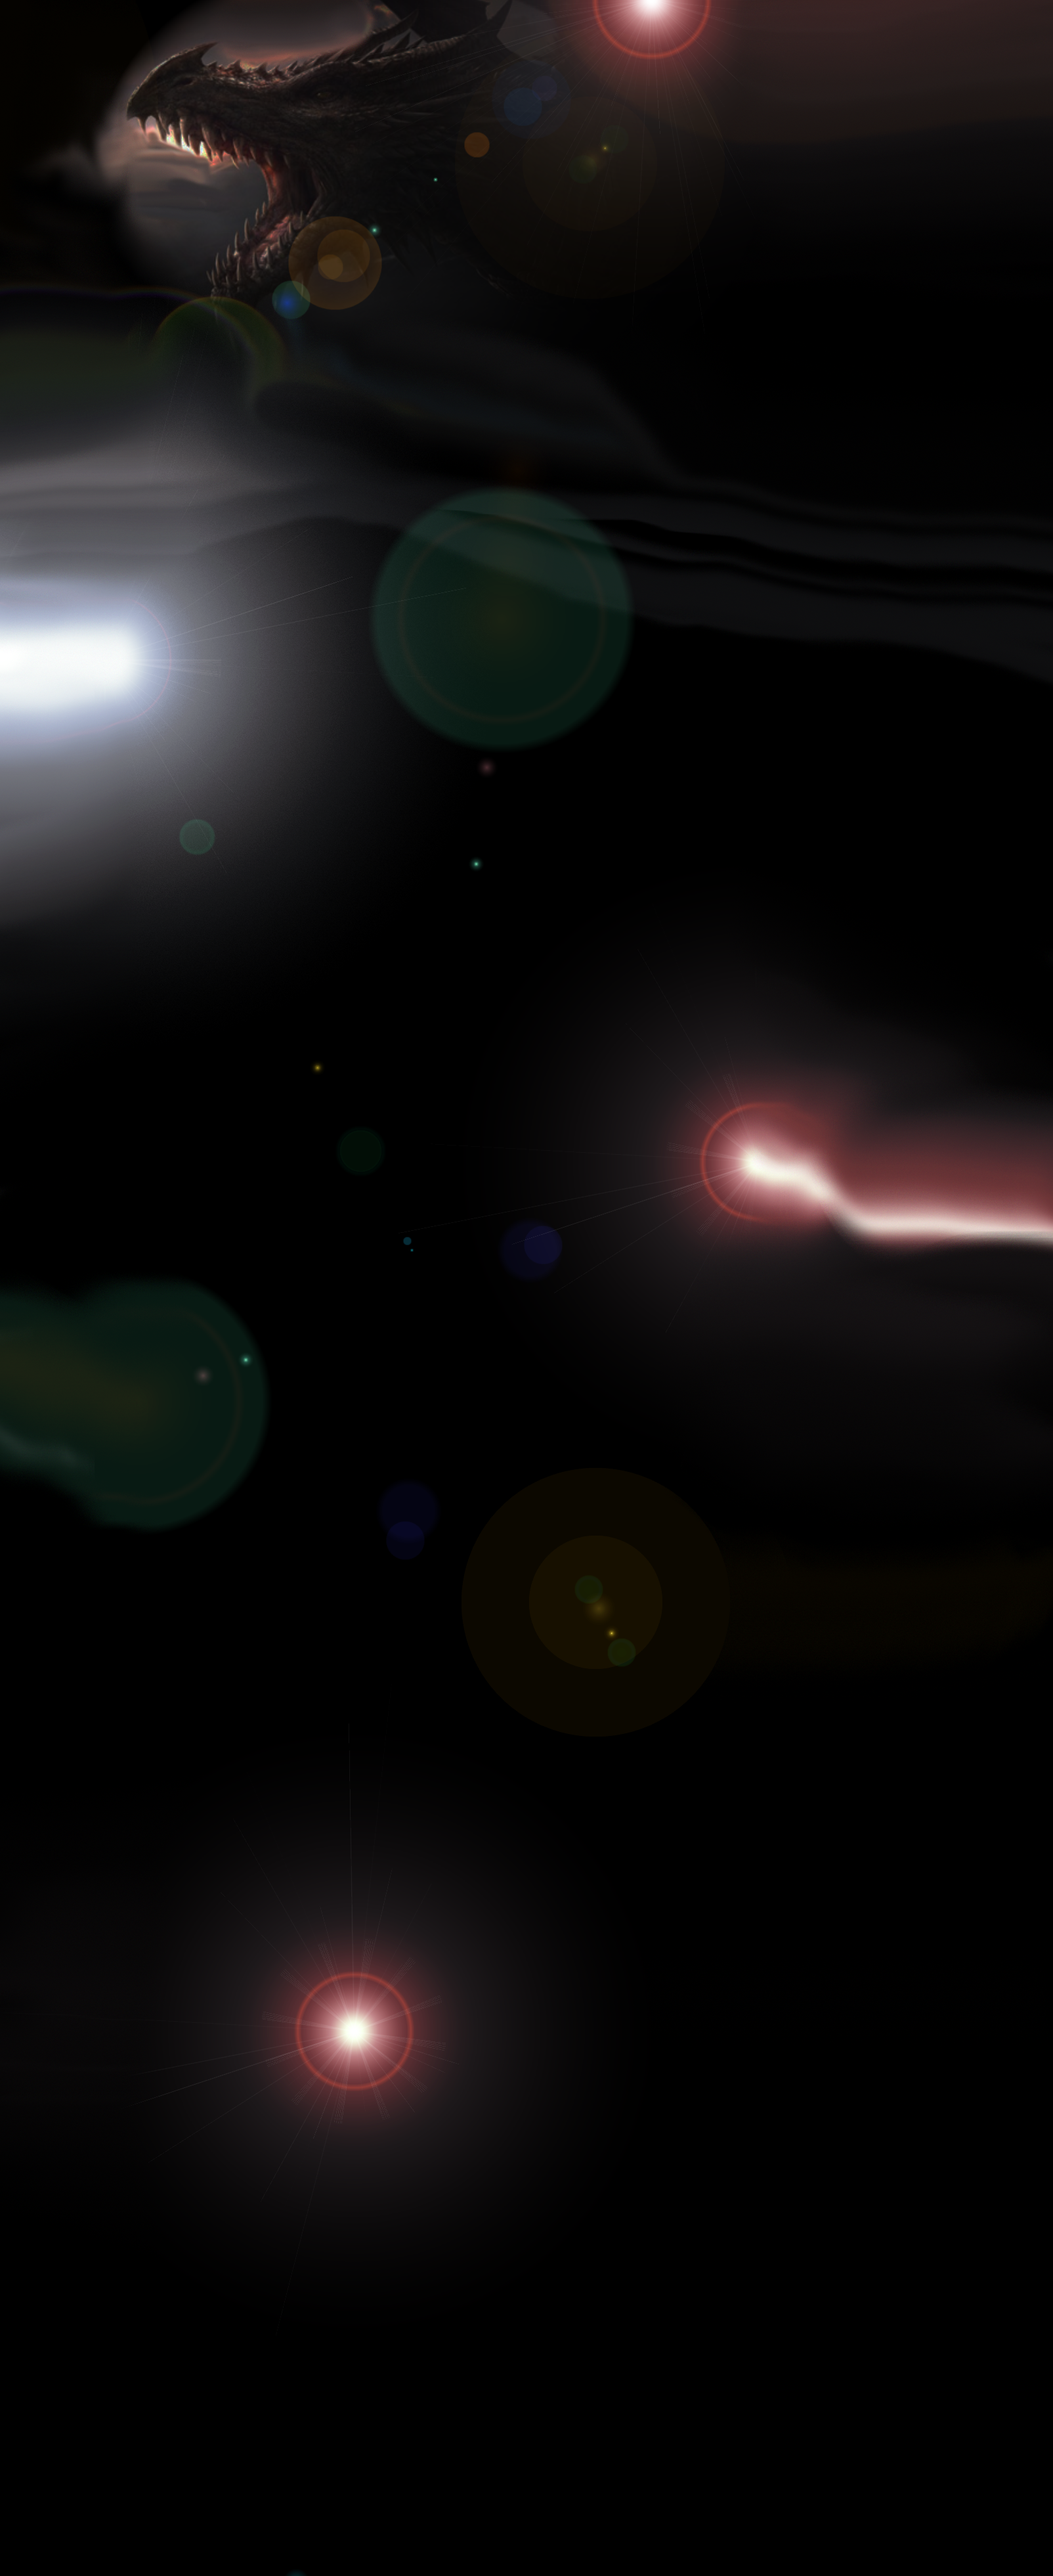
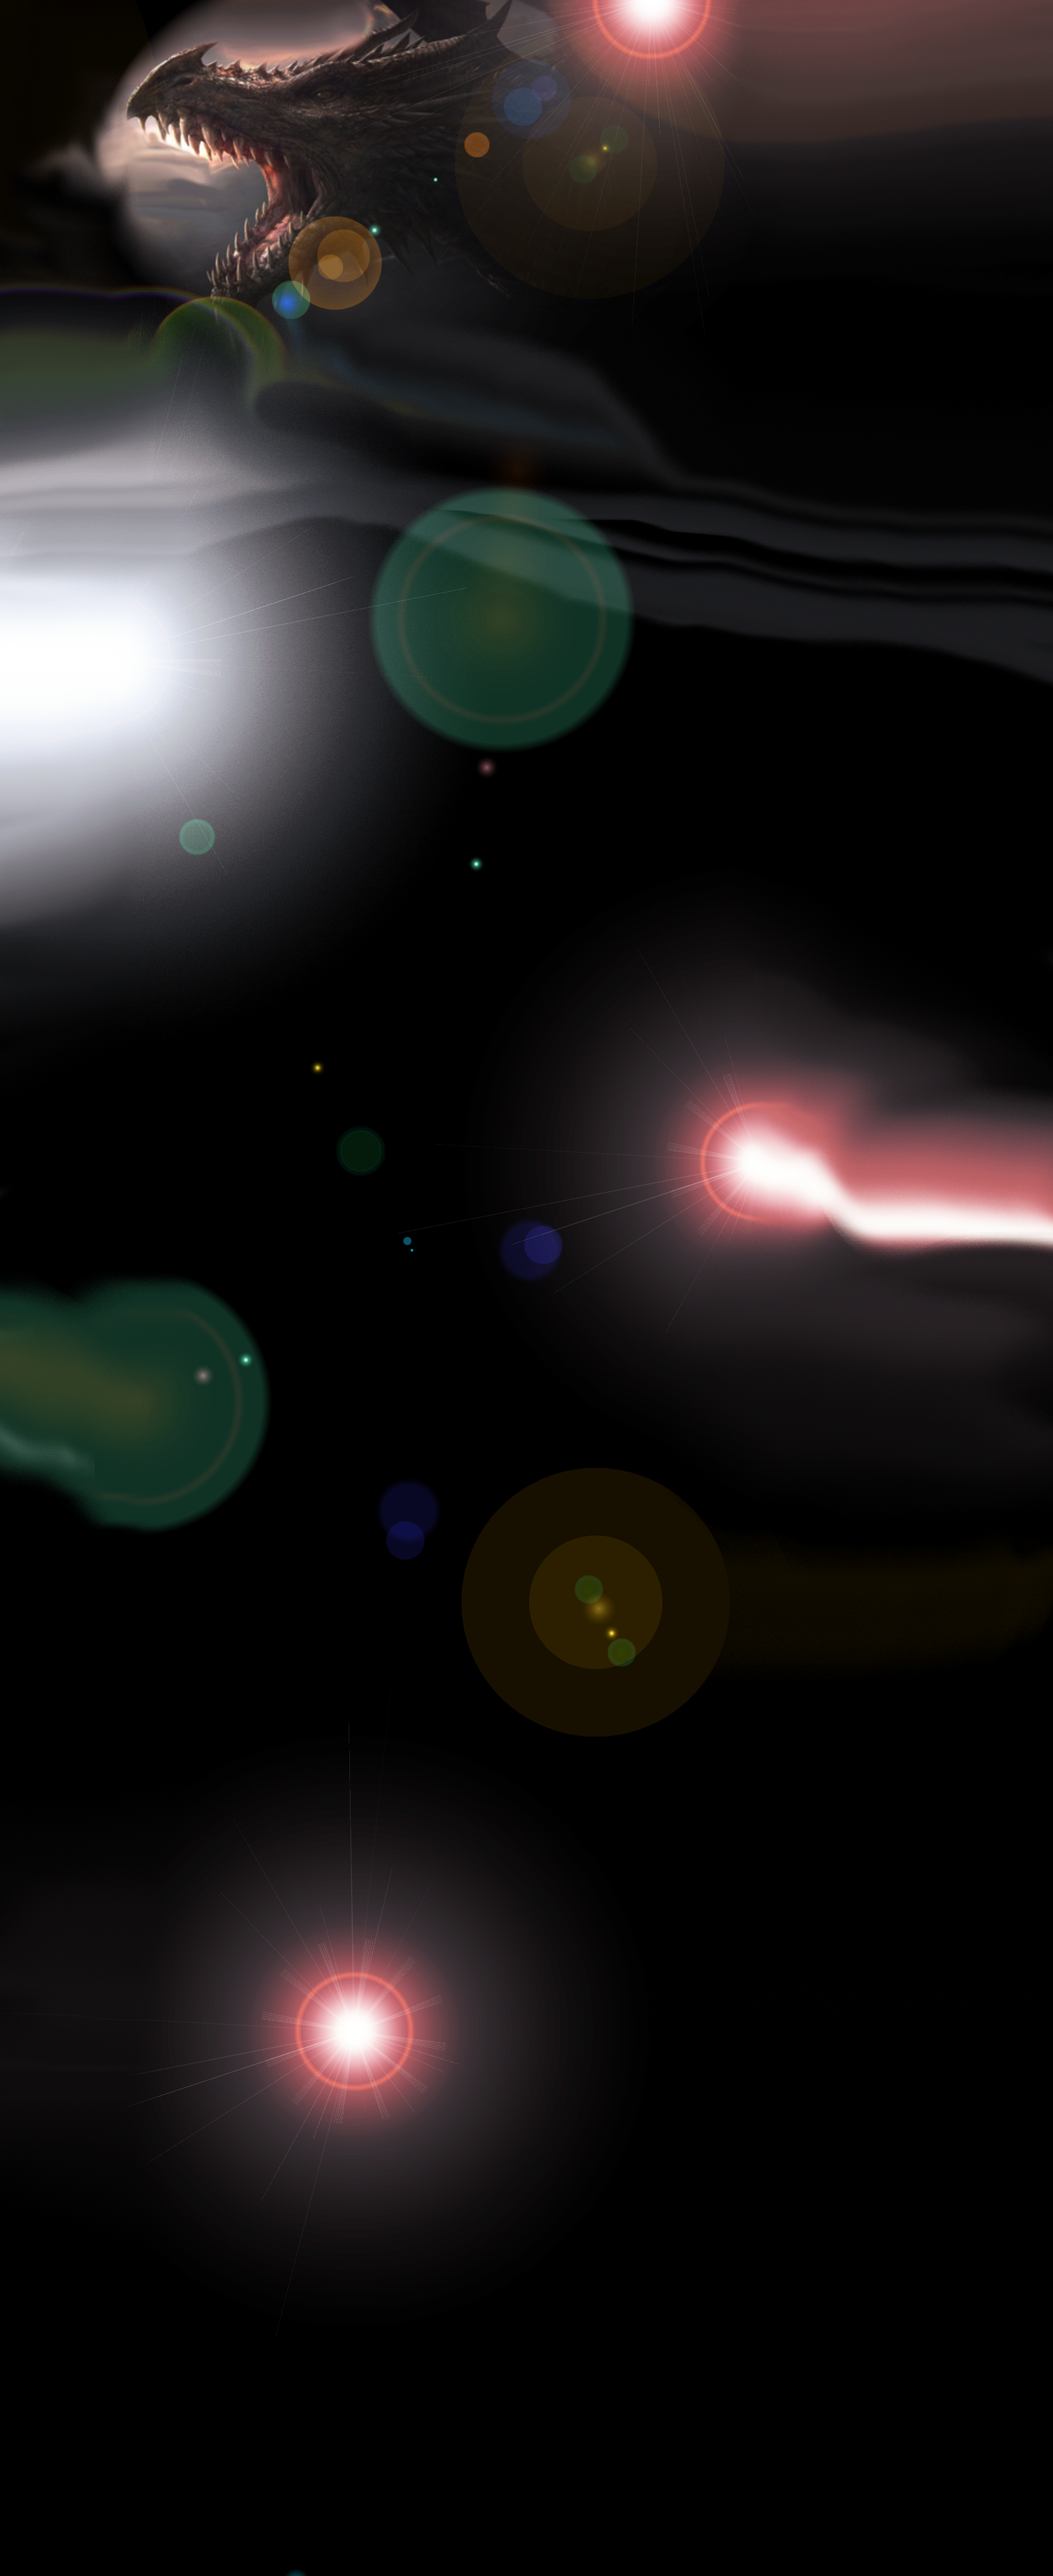
updated image contrast and css for background image

diff --git a/assets/css/style.css b/assets/css/style.css
@@ -4,6 +4,7 @@ body {
 	background-image: url("../images/smegol.PNG");
 	background-repeat: no-repeat;
 	background-color: black;
+	background-size: cover;
 }
 
 .titlebar {
@@ -105,6 +106,12 @@ p {
 }
 
 @media screen and (max-width: 2560px) {
+	body {
+		background-image: url("../images/smegol.PNG");
+		background-repeat: no-repeat;
+		background-color: black;
+		background-size: cover;
+	}
 	.jumbotron {
 		width: 100%;
 		margin-top: 1.5%;
@@ -204,6 +211,12 @@ p {
 }
 
 @media screen and (max-width: 1649px) {
+	body {
+		background-image: url("../images/smegol.PNG");
+		background-repeat: no-repeat;
+		background-color: black;
+		background-size: cover;
+	}
 	.jumbotron {
 		width: 100%;
 		margin-top: 1.5%;
@@ -303,6 +316,12 @@ p {
 }
 
 @media screen and (max-width: 2059px) {
+	body {
+		background-image: url("../images/smegol.PNG");
+		background-repeat: no-repeat;
+		background-color: black;
+		background-size: cover;
+	}
 	.jumbotron {
 		width: 100%;
 		margin-top: 1.5%;
@@ -402,6 +421,12 @@ p {
 }
 
 @media screen and (max-width: 1865px) {
+	body {
+		background-image: url("../images/smegol.PNG");
+		background-repeat: no-repeat;
+		background-color: black;
+		background-size: cover;
+	}
 	.jumbotron {
 		width: 100%;
 		margin-top: 1.5%;
@@ -490,6 +515,13 @@ p {
 }
 
 @media screen and (max-width: 1565px) {
+	body {
+		background-image: url("../images/smegol.PNG");
+		background-repeat: no-repeat;
+		background-color: black;
+		background-size: cover;
+	}
+
 	.jumbotron {
 		width: 100%;
 		margin-top: 1.5%;
@@ -579,6 +611,12 @@ p {
 
 
 @media screen and (max-width: 1280px)  {
+	body {
+		background-image: url("../images/smegol.PNG");
+		background-repeat: no-repeat;
+		background-color: black;
+		background-size: cover;
+	}
 	.jumbotron {
 		width: 100%;
 		margin-top: 1.5%;
@@ -668,7 +706,14 @@ p {
 
 
 
-@media screen and (min-width: 1224px) and (max-width: 1279px) {
+@media screen and (max-width: 1280px)  {
+	body {
+		background-image: url("../images/smegol_small.png");
+		background-repeat: no-repeat;
+		background-color: black;
+		background-size: cover;
+	}
+	
 	.jumbotron {
 		width: 100%;
 		margin-top: 1.5%;
@@ -677,7 +722,6 @@ p {
 		border-left: 0%;
 		border-right: 0%;
 	}
-
 	.jumbotron h1 {
 		font-family: 'Lexend Deca', sans-serif;
 		font-size: 38px;
@@ -757,13 +801,13 @@ p {
 
 }
 
-@media screen and (min-width: 1025px) and (max-width: 1223px) {
+@media screen and (min-width: 1024px) {
 
 	body {
 		background-image: url("../images/smegol_small.png");
 		background-repeat: no-repeat;
 		background-color: black;
-		background-size: 100% 100%;
+		background-size: cover;
 	}
 	
 	.jumbotron {
@@ -857,7 +901,7 @@ p {
 		background-image: url("../images/smegol.PNG");
 		background-repeat: no-repeat;
 		background-color: black;
-		background-size: 100% 100%;
+		background-size: cover%;
 	}
 	
 	.jumbotron {
@@ -951,7 +995,7 @@ p {
 		background-image: url("../images/smegol_small.png");
 		background-repeat: no-repeat;
 		background-color: black;
-		background-size: 100% 100%;
+		background-size: cover;
 	}
 	
 	.jumbotron {
@@ -1054,7 +1098,7 @@ p {
 		background-image: url("../images/smegol_small.png");
 		background-repeat: no-repeat;
 		background-color: black;
-		background-size: 100% 100%;
+		background-size: cover;
 	}
 	
 	.jumbotron {
